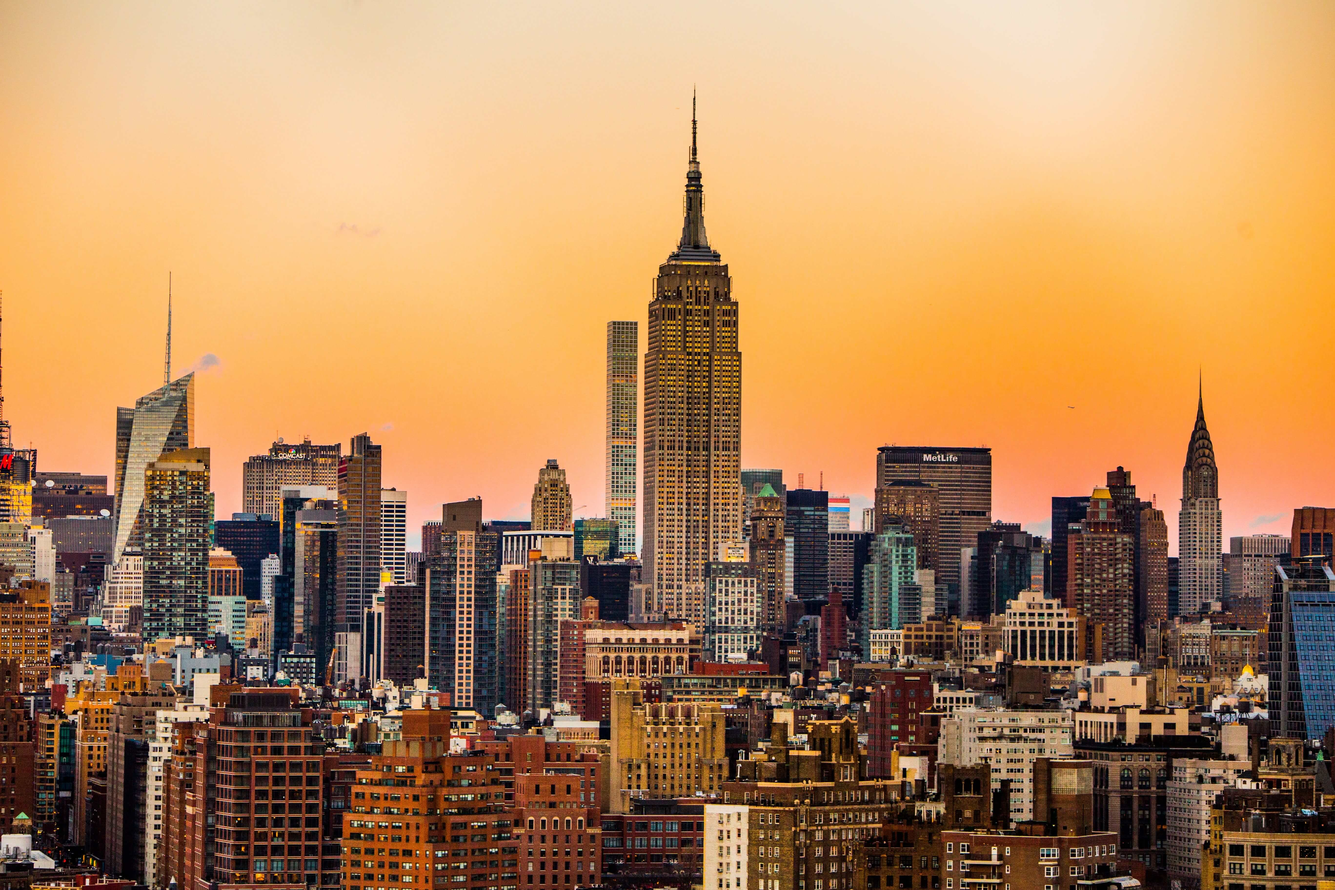
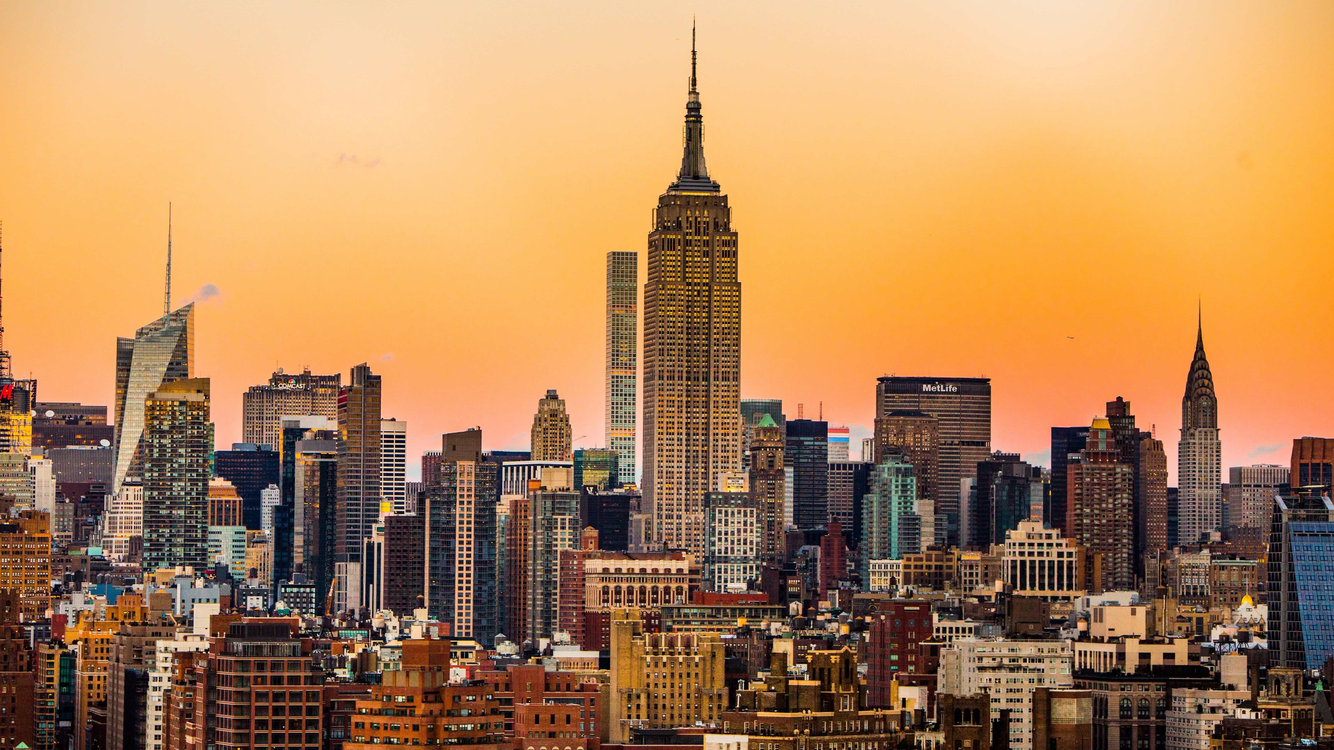
Fix Flaws for Site Optimization Test

diff --git a/index.html b/index.html
@@ -11,7 +11,7 @@
 </head>
 <body>
   <header>
-    <div class="cover bg-left bg-center-l" style="background-image: url(assets/sunset.jpg); background-attachment: fixed;">
+    <div class="cover bg-left bg-center-l" style="background-image: url(assets/sunset-small.jpg); background-attachment: fixed;  background-position: bottom;">
       <div class="bg-black-80 pb5 pb6-m pb7-l">
         <nav class="dt w-100 mw8 center"> 
           <div class="dtc w2 v-mid pa4">
@@ -32,25 +32,25 @@
           <a class="f6 no-underline grow dib v-mid white ba b--white br-pill ph3 pv2 mb3" href="">Contact Us</a>
         </div>
       </div>
-      <div id="learn-more"></div>
+      
     </div> 
     
   </header>
 
   
-  <div class="page-body p-5">
+  <div class="page-body p-5"><div id="learn-more"></div>
 
     <div class="feature dt w-100 center ph5-ns">
       <div class="db dtc-ns fl v-mid ph2 pr3">
         <h2 class="f2">About Us</h2>
-        <p class="lh-copy pr4-l">
+        <p class="lh-copy pr3-l">
             Since 1957, Allura Imports Inc. 
             has been dedicated to creating quality fashion 
             for children at the best possible value. 
         </p>
       </div>
       <div class="db dtc-ns v-mid-ns">
-        <img src="assets/home/baby.jpg" alt="Child Wearing Duck Duck Goose Clothing" class="w-100 mw8 w6-ns" />
+        <img src="assets/home/baby.jpg" alt="Child Wearing Duck Duck Goose Clothing" class="w-75 fr mw8 w6-ns" />
       </div>
     </div>
 
@@ -58,8 +58,8 @@
       <div class="db dtc-ns v-mid-ns">
         <img src="assets/home/enyce.jpg" alt="Child Wearing ENYCE Clothing" class="w-100 mw8 w6-ns" />
       </div>
-      <div class="db dtc-ns fl v-mid ph2 pr3 ml4-ns">
-        <p class="lh-copy v-mid pr4-l">
+      <div class="db dtc-ns center v-mid ph2 pr4 fl ml4-ns">
+        <p class="lh-copy v-mid center fl tr">
             We offer various collections for children of all ages. 
             From newborn up to sizes 7-16 in girls and 8-18 in boys, 
             we have fashion that our customers crave at a cost that can't be beat. 
@@ -75,7 +75,7 @@
         <legend class="pa0 f5 f4-ns mb3 white os-bold">Sign up for our newsletter</legend>
         <div class="cf">
           <label class="clip" for="email-address">Email Address</label>
-          <input class="f6 f5-l input-reset bn fl black-80 bg-white pa3 lh-solid w-100 w-75-m w-80-l br2-ns br--left-ns" placeholder="Your Email Address" type="text" name="email-address" value="" id="email-address">
+          <input class="mb3 f6 f5-l input-reset bn fl black-80 bg-white pa3 lh-solid w-100 w-75-m w-80-l br2-ns br--left-ns" placeholder="Your Email Address" type="text" name="email-address" value="" id="email-address">
           <input class="f6 f5-l button-reset fl pv3 tc bn bg-animate bg-black-70 hover-bg-black white pointer w-100 w-25-m w-20-l br2-ns br--right-ns" type="submit" value="Subscribe">
         </div>
       </fieldset>
@@ -124,10 +124,10 @@
             </div>
           </div>
         </div>
-      </div>    
-      <a class="f6 no-underline grow center dib v-mid bg-blue white ba br-pill b--blue ph3 pv2 mt2 mb4" href="/brands">Learn More About Our Brands</a>
+      </div>
+      
     </div>
-
+    <p class="tc" ><a href=" " class="f6 no-underline grow dib v-mid bg-blue white ba br-pill b--blue ph3 pv2 mt1 mb4">Learn More About Our Brands</a></p>
   </div>
 
   <footer style="background-image:url(assets/giphy.gif); background-position-y: 65%;" class="tc-l bg-center cover bg-black">
@@ -153,15 +153,18 @@
           <a href="mailto:cs@alluraimports.com" class="f6 db fw6 pv1 dim white link" title="Call the LA office.">
             cs@alluraimports.com
           </a>
+          <a href="contact.html" class="f6 db fw6 pv1 dim white link" title="Call the LA office.">
+            Fill out the form
+          </a>
         </article>
       </div>
 
       <br>
 
       <div class="mt2">
-        <a href="/about.html" title="About" class="f6 dib pr2 light-gray dim">Language</a>
-        <a href="/brands.html" title="Brands" class="f6 dib ph2 light-gray dim">Terms of Use</a>
-        <a href="/privacy/"  title="Site Credits" class="f6 dib pl2 light-gray dim">Privacy</a>
+        <a href="/index.html" title="Home" class="f6 dib pr2 light-gray dim">Home</a>
+        <a href="/about.html" title="About" class="f6 dib ph2 light-gray dim">About</a>
+        <a href="/brands.html"  title="Brands" class="f6 dib pl2 light-gray dim">Brands</a>
       </div>
       <div class="mt2 code white">
         <p>Website designed and developed by <a href="https://maxshalom.com" title="Site Credits: Max Shalom" class="f6 dib light-gray dim">Max Shalom</a></p>
